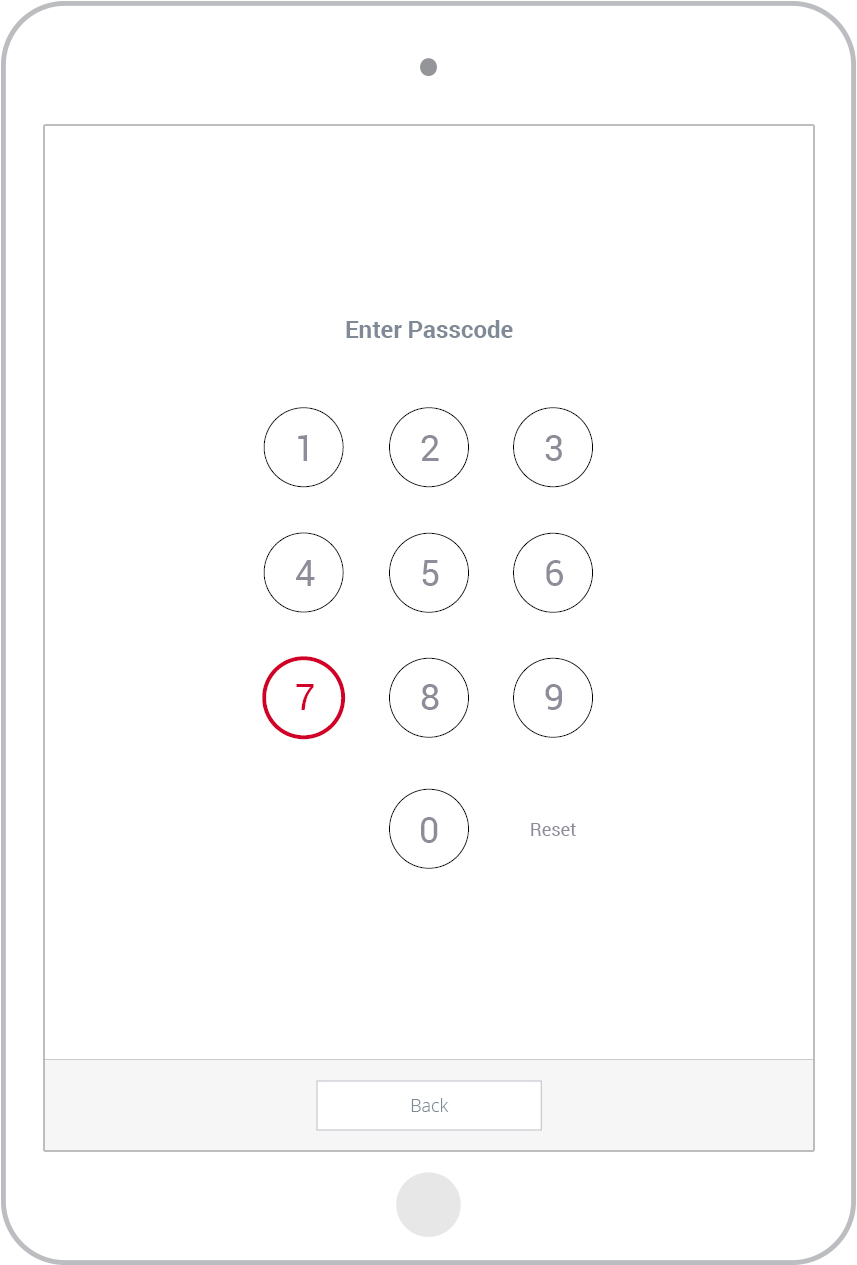
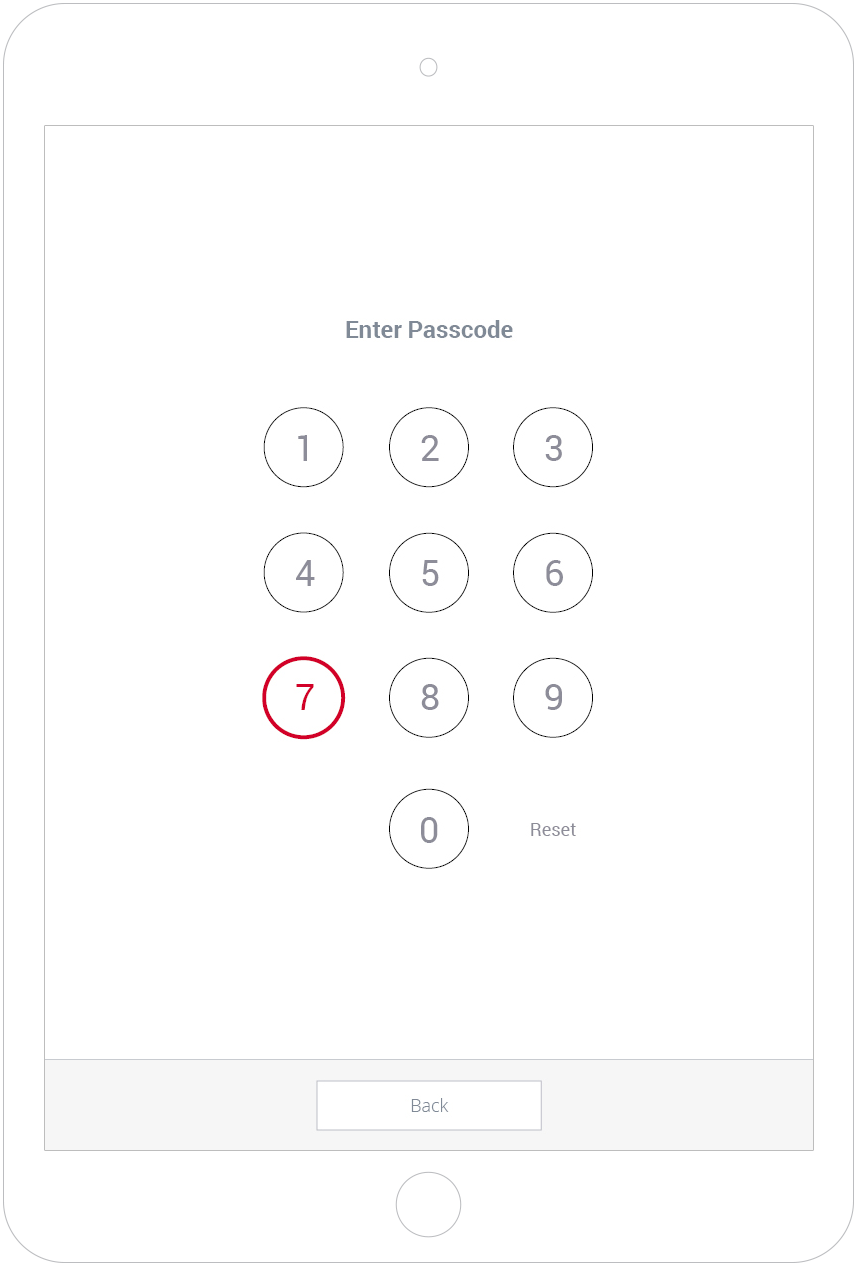
add browser head/lighten ipad frame

Changed region(s): [[0.0, 0.0, 1.0, 0.9866], [0.0303, 0.9866, 0.9708, 1.0]]

diff --git a/chengfolio/css/global.css b/chengfolio/css/global.css
@@ -178,8 +178,14 @@ a:hover, a:focus{
 
 .img__wrapper{
 	box-shadow: 0 1px 6px rgba(0,0,0,.1);
+	background-color: #F8F8F8;
 }
 
+.divider--horizontal--even{
+	height: 1px;
+	background-color: #F6F6F6;
+	width: 100%;
+}
 
 /*----------------------------------------------
 ------------------------------------------------

diff --git a/chengfolio/view/work/heymenu.php b/chengfolio/view/work/heymenu.php
@@ -29,9 +29,9 @@
 	<div class="work__background--differentiator">
 		<div class="container margin--section_top padding--element_lg ">
 			<div class="row">
-				<div class="col-md-12">
+				<div class="col-md-10 col-md-offset-1">
 					<div class="row">
-						<div class="col-md-8 col-md-offset-1">
+						<div class="col-md-12">
 							<h2 class="txt--subtitle">Logo Design</h2>
 						</div>
 					</div>
@@ -43,18 +43,18 @@
 					</div>
 
 					<div class="row">
-						<div class="col-md-6 col-md-offset-1 margin--element_top_sm" >
+						<div class="col-md-8 margin--element_top_sm" >
 							<p class="margin--element_top">In the dictionary, ‘Hey’ is used to attract someone's attention or to express surprise, joy, or anger. Based on this idea, the design combines the speech bubble and the word ‘hey’ to create a friendly cartoonish symbol.</p>
 						</div>
 					</div>
 
 					<div class="row">
-						<div class="col-md-5 col-md-offset-1 margin--element_top_lg" >						
+						<div class="col-md-6 margin--element_top_lg" >						
 							<img src="/img/work/heymenu/heymenu_menu_launch-img.png" class="img-responsive center-block" alt="Launch image">
 							<p class="txt--primary_on_light text-center margin--element_top_xs">Launch Image</p>
 						</div>
 
-						<div class="col-md-5 margin--element_top_lg" >					
+						<div class="col-md-6 margin--element_top_lg" >					
 							<img src="/img/work/heymenu/heymenu_menu_login.png" class="img-responsive center-block" alt="Login page">
 							<p class="txt--primary_on_light text-center margin--element_top_xs">Login page</p>
 						</div>
@@ -74,7 +74,7 @@
 				</div>
 
 				<div class="row">
-					<div class="col-md-6 margin--element_top_sm" >
+					<div class="col-md-8 margin--element_top_sm" >
 						<p class="">This is part is for the servers to open/change tables, which is not visible for customers. Switching from menu to table-editing page requires passcode</p>
 					</div>
 				</div>
@@ -179,7 +179,7 @@
 					</div>
 
 					<div class="row">
-						<div class="col-md-6 margin--element_top_sm" >
+						<div class="col-md-8 margin--element_top_sm">
 							<p class="">Regular users and admin users have different user interface: regular users can only manage daily operations, admin users have access to higher level settings.</p>
 						</div>
 					</div>
@@ -191,12 +191,20 @@
 		<div class="row">
 			<div class="col-md-offset-1 col-md-10">
 				<div class="col-md-6 margin--element_top" >
-					<img src="/img/work/heymenu/heymenu_admin_order.jpg" class="img-responsive center-block img__wrapper" alt="What Regular User see in 'order' page.">
+					<div class="img__wrapper">
+						<img src="/img/global/icon_browser_head.png" class="img-responsive" alt="What Regular User see in 'order' page.">
+						<div class="divider--horizontal--even"></div>
+						<img src="/img/work/heymenu/heymenu_admin_order.jpg" class="img-responsive center-block" alt="What Regular User see in 'order' page.">
+					</div>
 					<p class="txt--primary_on_light text-center margin--element_top_xs">Regular User</p>
 				</div>
 
 				<div class="col-md-6 margin--element_top" >
-					<img src="/img/work/heymenu/heymenu_admin_order-admin.jpg" class="img-responsive center-block img__wrapper" alt="What Admin User see in 'order' page.">
+					<div class="img__wrapper">
+						<img src="/img/global/icon_browser_head.png" class="img-responsive" alt="What Regular User see in 'order' page.">
+						<div class="divider--horizontal--even"></div>
+						<img src="/img/work/heymenu/heymenu_admin_order-admin.jpg" class="img-responsive center-block" alt="What Admin User see in 'order' page.">
+					</div>
 					<p class="txt--primary_on_light text-center margin--element_top_xs">Admin User</p>
 				</div>
 			</div>
@@ -214,17 +222,25 @@
 			</div>
 		</div>
 	</div>
-	<div class="container-fluid padding--element_bottom_lg">
+	<div class="container padding--element_bottom_lg">
 		<div class="row">
-			<div class="margin--element_top" >
-				<img src="/img/work/heymenu/heymenu_admin_menu.jpg" class="img-responsive center-block img__wrapper" alt="Dish Item List Screenshot">
+			<div class="margin--element_top col-md-10 col-md-offset-1">
+				<div class="img__wrapper">
+					<img src="/img/global/icon_browser_head.png" class="img-responsive" alt="What Regular User see in 'order' page.">
+					<div class="divider--horizontal--even"></div>
+					<img src="/img/work/heymenu/heymenu_admin_menu.jpg" class="img-responsive center-block" alt="Dish Item List Screenshot">
+				</div>			
 				<p class="txt--primary_on_light text-center margin--element_top_xs">Dish Item List</p>
 			</div>		
 		</div>
 
 		<div class="row">
-			<div class="margin--element_top" >
-				<img src="/img/work/heymenu/heymenu_admin_add-dish.jpg" class="img-responsive center-block img__wrapper" alt="Add Dish Item Screenshot">
+			<div class="margin--element_top col-md-10 col-md-offset-1" >
+				<div class="img__wrapper">
+					<img src="/img/global/icon_browser_head.png" class="img-responsive" alt="What Regular User see in 'order' page.">
+					<div class="divider--horizontal--even"></div>
+					<img src="/img/work/heymenu/heymenu_admin_add-dish.jpg" class="img-responsive center-block" alt="Add Dish Item Screenshot">
+				</div>	
 				<p class="txt--primary_on_light text-center margin--element_top_xs">Add Dish Item</p>
 			</div>		
 		</div>
@@ -248,22 +264,42 @@
 			<div class="col-md-10 col-md-offset-1">
 				<div class="row">
 					<div class="col-md-6 margin--element_top" >
-						<img src="/img/work/heymenu/heymenu_admin_transaction-summary.jpg" class="img-responsive center-block img__wrapper" alt="Summary Screenshot">
+						<div class="img__wrapper">
+							<img src="/img/global/icon_browser_head.png" class="img-responsive" alt="What Regular User see in 'order' page.">
+							<div class="divider--horizontal--even"></div>
+							<img src="/img/work/heymenu/heymenu_admin_transaction-summary.jpg" class="img-responsive center-block" alt="Summary Screenshot">
+						</div>	
+
 						<p class="txt--primary_on_light text-center margin--element_top_xs">Summary</p>
 					</div>
 
 					<div class="col-md-6 margin--element_top" >
-						<img src="/img/work/heymenu/heymenu_admin_transaction-item.jpg" class="img-responsive center-block img__wrapper" alt="Transaction by item Screenshot">
+						<div class="img__wrapper">
+							<img src="/img/global/icon_browser_head.png" class="img-responsive" alt="What Regular User see in 'order' page.">
+							<div class="divider--horizontal--even"></div>
+							<img src="/img/work/heymenu/heymenu_admin_transaction-item.jpg" class="img-responsive center-block" alt="Transaction by item Screenshot">
+						</div>	
+
 						<p class="txt--primary_on_light text-center margin--element_top_xs">Transaction by item</p>
 					</div>
 
 					<div class="col-md-6 margin--element_top" >
-						<img src="/img/work/heymenu/heymenu_admin_transaction-category.jpg" class="img-responsive center-block img__wrapper" alt="Transaction by category Screenshot">
+						<div class="img__wrapper">
+							<img src="/img/global/icon_browser_head.png" class="img-responsive" alt="What Regular User see in 'order' page.">
+							<div class="divider--horizontal--even"></div>
+							<img src="/img/work/heymenu/heymenu_admin_transaction-category.jpg" class="img-responsive center-block" alt="Transaction by category Screenshot">
+						</div>	
+						
 						<p class="txt--primary_on_light text-center margin--element_top_xs">Transaction by category</p>
 					</div>
 
 					<div class="col-md-6 margin--element_top" >
-						<img src="/img/work/heymenu/heymenu_admin_transaction-activities.jpg" class="img-responsive center-block img__wrapper" alt="Activities Screenshot">
+						<div class="img__wrapper">
+							<img src="/img/global/icon_browser_head.png" class="img-responsive" alt="What Regular User see in 'order' page.">
+							<div class="divider--horizontal--even"></div>
+							<img src="/img/work/heymenu/heymenu_admin_transaction-activities.jpg" class="img-responsive center-block" alt="Activities Screenshot">
+						</div>	
+	
 						<p class="txt--primary_on_light text-center margin--element_top_xs">Activities</p>
 					</div>			
 				</div>
